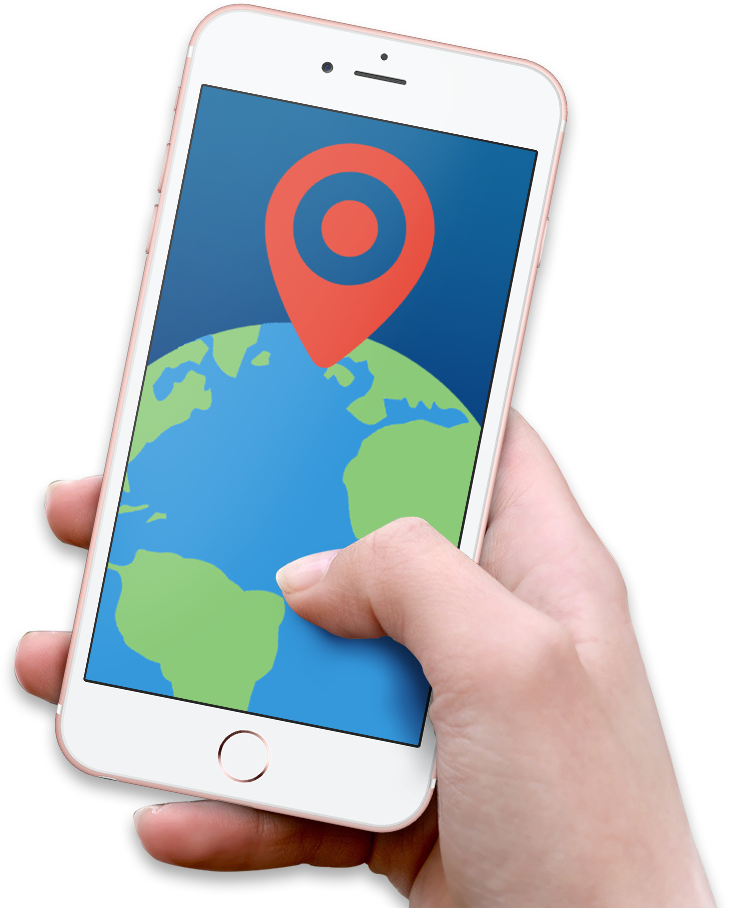
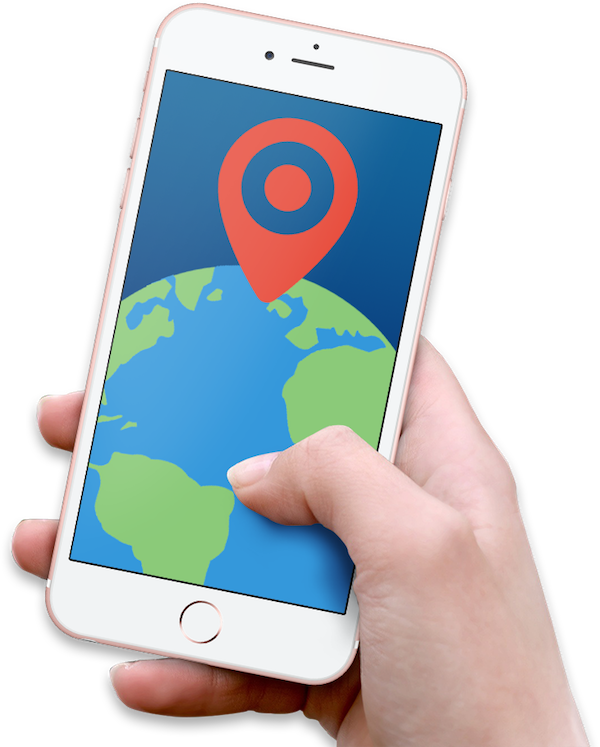
update styles - resized the elements

Changed region(s): [[0.3, 0.8005, 0.33, 0.8313]]

diff --git a/src/Components/FileDrop/file-drop.css b/src/Components/FileDrop/file-drop.css
@@ -1,5 +1,5 @@
 .file-drop {
-    min-width: 460px;
+    /*min-width: 460px;*/
     margin: 0 auto;
 }
 
@@ -8,7 +8,7 @@
 }
 
 .file-drop__info {
-    font-size: 26px;
+    font-size: 23px;
     font-weight: 300;
     color: white;
     padding-bottom: 50px;
@@ -20,17 +20,19 @@
     text-align: center;
     font-weight: 300;
     margin-top: 28px;
+    padding-bottom: 0;
 }
 
 .file-drop__info-link {
     color: #e74c3c;
-    /*font-weight: 600;*/
 }
 
 .dropzone {
+    text-align: center;
+    width: 380;
+    height: 380px;
     font-size: 22px;
     font-weight: 500;
-    height: 400px;
     padding: 20px;
     border-radius: 8px;
     -webkit-box-shadow: inset rgba(0, 0, 0, 0.13) 2px 2px 10px 0px;

diff --git a/src/index.css b/src/index.css
@@ -3,6 +3,7 @@ body {
     padding: 0;
     font-family: 'Roboto', sans-serif;
     font-weight: 300;
+    background: #13659c;
     background: -webkit-linear-gradient(90deg, #13659c, #00165f);
     background: -moz-linear-gradient(90deg, #13659c, #00165f);
     background: -o-linear-gradient(90deg, #13659c, #00165f);
@@ -11,12 +12,8 @@ body {
     min-height: 100vh;
 }
 
-html, body {
-    /*background-color: #F2F2F2;*/
-}
-
 .App {
-    text-align: center;
+    padding-bottom: 20px;
 }
 
 .App-logo {

diff --git a/src/Components/Header/header.css b/src/Components/Header/header.css
@@ -1,15 +1,19 @@
 .header {
-    display: flex;
-    align-items: center;
-    justify-content: center;
     font-family: Arial, Helvetica, sans-serif;
-    height: 200px;
-    /*background-color: #414F5F;*/
+    /*height: 200px;*/
     color: white;
-    flex-direction: column;
+    text-align: left;
+    padding: 20px 0;
+    margin-left: 20%;
 }
 
 .header__title {
     font-size: 44px;
     margin-bottom: 40px;
+    display: block;
+    width: 400px;
+}
+
+.header__logo {
+    width: 100%;
 }

diff --git a/src/Pages/Upload/style.css b/src/Pages/Upload/style.css
@@ -5,16 +5,14 @@
 }
 
 .content {
-    display: flex;
-    flex-direction: row;
+    width: 480px;
+    margin-left: 20%;
 }
-
-/*
-.content * {
-    flex: 1;
-}
-*/
 
 .phone-picture {
-    float: right;
+    /*float: right;*/
+    position: fixed;
+    bottom: -20px;
+    right: 20px;
+    z-index: -1;
 }

diff --git a/src/Components/Header/Header.js b/src/Components/Header/Header.js
@@ -7,7 +7,7 @@ const Header = () => {
     return (
         <header className="header">
             <h1 className="header__title">
-                <img src={logo} />
+                <img className="header__logo" src={logo} />
             </h1>
         </header>
     );
